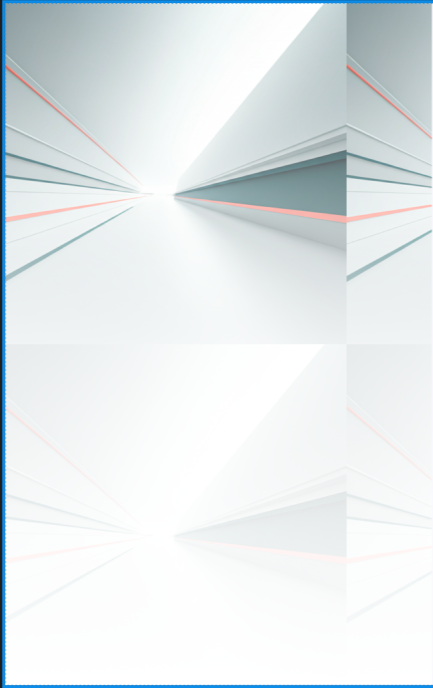
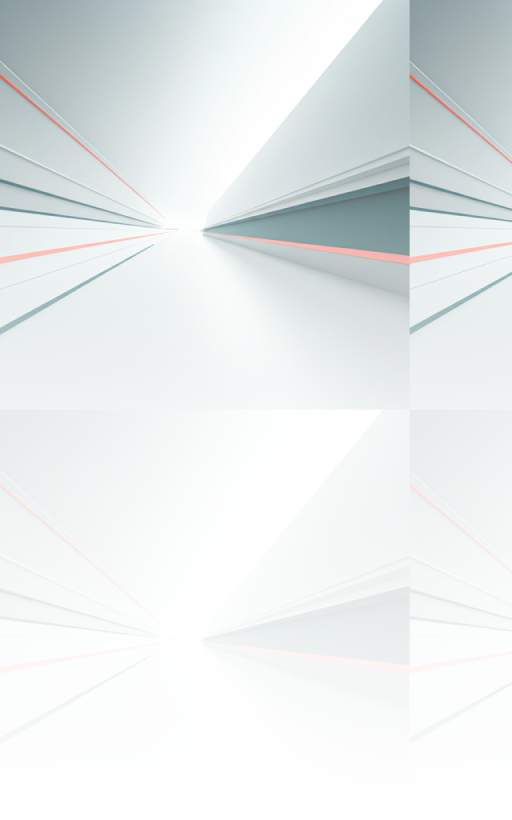
show user information dynamically, and sighout

diff --git a/src/components/NavProfileModal.jsx b/src/components/NavProfileModal.jsx
@@ -1,0 +1,94 @@
+"use client";
+
+import React, { useState } from "react";
+import { Avatar, Button, Popover } from "@heroui/react";
+import { FiUser, FiLogOut, FiSettings, FiHeart } from "react-icons/fi";
+import Link from "next/link";
+import { authClient } from "@/lib/auth-client";
+import { useRouter } from "next/navigation";
+
+const ProfileModal = ({user}) => {
+  const router = useRouter()
+
+  return (
+    <div className="flex items-center gap-6">
+      <Popover placement="bottom-end" backdrop="opaque">
+        {/* ১. ট্রিগার: যেখানে ক্লিক করলে মেনু ওপেন হবে */}
+        <Popover.Trigger aria-label="User profile">
+          <button type="button" className="flex items-center gap-2.5 outline-none group bg-transparent border-none cursor-pointer">
+            <Avatar size="sm" className="ring-2 ring-transparent group-hover:ring-[#0D3B66]/20 transition-all">
+              <Avatar.Image
+                alt={user?.name}
+                src={user?.image}
+              />
+              <Avatar.Fallback className="bg-[#0D3B66]/5 text-[#0D3B66] font-bold text-xs">{user?.name[0]+user?.name[1]}</Avatar.Fallback>
+            </Avatar>
+           
+          </button>
+        </Popover.Trigger>
+
+        {/* ২. মোডাল কন্টেন্ট কার্ড */}
+        <Popover.Content className="w-[300px] bg-white rounded-2xl border border-gray-100 shadow-[0_15px_50px_rgba(13,59,102,0.08)] p-4">
+          <Popover.Dialog className="outline-none">
+            
+            {/* প্রোফাইল হেডার সেকশন */}
+            <Popover.Heading>
+              <div className="flex items-start justify-between gap-3">
+                <div className="flex items-center gap-3">
+                  <Avatar size="md" className="w-12 h-12">
+                    <Avatar.Image
+                      alt={user?.name}
+                      src={user?.image}
+                    />
+                    <Avatar.Fallback className="bg-[#0D3B66]/5 text-[#0D3B66] font-bold">SJ</Avatar.Fallback>
+                  </Avatar>
+                  <div className="flex flex-col">
+                    <p className="font-black text-slate-800 text-[15px] tracking-tight leading-tight">{user?.name}</p>
+                    <p className="text-[12px] font-medium text-slate-400">{user?.email}</p>
+                  </div>
+                </div>
+
+                
+                
+              </div>
+            </Popover.Heading>
+
+
+            
+
+            <div className="my-3.5 bg-gray-100" />
+
+            
+            <div className="space-y-1">
+              <Link href="/profile" className="w-full h-9 px-2.5 rounded-lg flex items-center gap-3 text-slate-600 hover:bg-slate-50 hover:text-[#0D3B66] transition-colors text-[13px] font-semibold group">
+                <FiUser className="text-slate-400 group-hover:text-[#0D3B66] size-4 transition-colors" />
+                <span>My Profile</span>
+              </Link>
+
+              <Link href="/settings" className="w-full h-9 px-2.5 rounded-lg flex items-center gap-3 text-slate-600 hover:bg-slate-50 hover:text-[#0D3B66] transition-colors text-[13px] font-semibold group">
+                <FiSettings className="text-slate-400 group-hover:text-[#0D3B66] size-4 transition-colors" />
+                <span>Account Settings</span>
+              </Link>
+
+              <div className="my-1 bg-gray-50" />
+
+              <button 
+                
+                 onClick={async () =>
+                      await authClient.signOut(router.push("/auth/signin"))
+                    }
+                className="w-full h-9 px-2.5 rounded-lg flex items-center gap-3 text-rose-600 hover:bg-rose-50 transition-colors text-[13px] font-bold group border-none text-left bg-transparent cursor-pointer"
+              >
+                <FiLogOut className="text-rose-400 group-hover:text-rose-600 size-4 transition-colors" />
+                <span>Log Out</span>
+              </button>
+            </div>
+
+          </Popover.Dialog>
+        </Popover.Content>
+      </Popover>
+    </div>
+  );
+};
+
+export default ProfileModal;

diff --git a/src/components/shared/NavBar.jsx b/src/components/shared/NavBar.jsx
@@ -2,18 +2,28 @@
 
 import React, { useState } from "react";
 import Link from "next/link";
-import { usePathname } from "next/navigation";
+import { usePathname, useRouter } from "next/navigation";
 import Image from "next/image";
 
 // Framer Motion
 import { motion, AnimatePresence } from "framer-motion";
 
-// Icons
 import { MdMenu, MdClose } from "react-icons/md";
+import { authClient } from "@/lib/auth-client";
+
+import ProfileModal from "../NavProfileModal";
 
 const NavBar = () => {
+  const { data: session, isPending } = authClient.useSession();
+  const user = session?.user;
+
+  console.log(user);
+
   const [isOpen, setIsOpen] = useState(false);
   const pathname = usePathname();
+
+  
+
   if (pathname.includes("auth")) {
     return null;
   }
@@ -78,12 +88,19 @@ const NavBar = () => {
           <div className="hidden md:flex items-center gap-6">
             <div className="flex items-center gap-5">
               {/* Sign In Link */}
-              <Link
-                href="/auth/signin"
-                className="font-bold text-[15px] text-[#0D3B66] hover:text-[#F46036] transition-colors"
-              >
-                Sign In
-              </Link>
+              {user ? (
+                <>
+                  
+                  <ProfileModal user={user}/>
+                </>
+              ) : (
+                <Link
+                  href="/auth/signin"
+                  className="font-bold text-[15px] text-[#0D3B66] hover:text-[#F46036] transition-colors"
+                >
+                  Sign In
+                </Link>
+              )}
               {/* Get Started Button */}
               <Link
                 href="/register"
@@ -96,6 +113,7 @@ const NavBar = () => {
 
           {/* --- Small Devices Mobile Menu Trigger --- */}
           <div className="flex md:hidden items-center gap-3">
+            <ProfileModal user={user}/>
             <button
               onClick={() => setIsOpen(true)}
               className="text-[#0D3B66] p-1 text-2xl focus:outline-none"
@@ -171,13 +189,13 @@ const NavBar = () => {
               {/* Mobile Drawer Action Dynamic Footer Grid */}
               <div className="w-full border-t border-gray-100 pt-5 pb-2 select-none transition-colors duration-300">
                 <div className="flex flex-col gap-3 w-full">
-                  <Link
+                  {!user && <Link
                     href="/auth/signin"
                     onClick={() => setIsOpen(false)}
                     className="text-[#0D3B66] font-bold text-[16px] h-11 rounded-md border-2 border-[#0D3B66] flex items-center justify-center transition-all whitespace-nowrap"
                   >
                     Sign In
-                  </Link>
+                  </Link>}
 
                   <Link
                     href="/register"